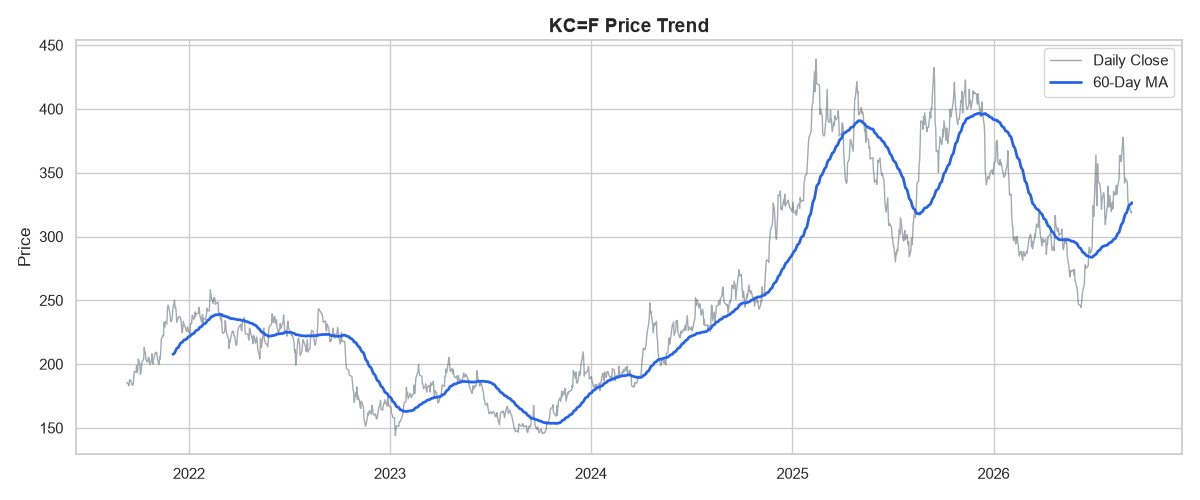
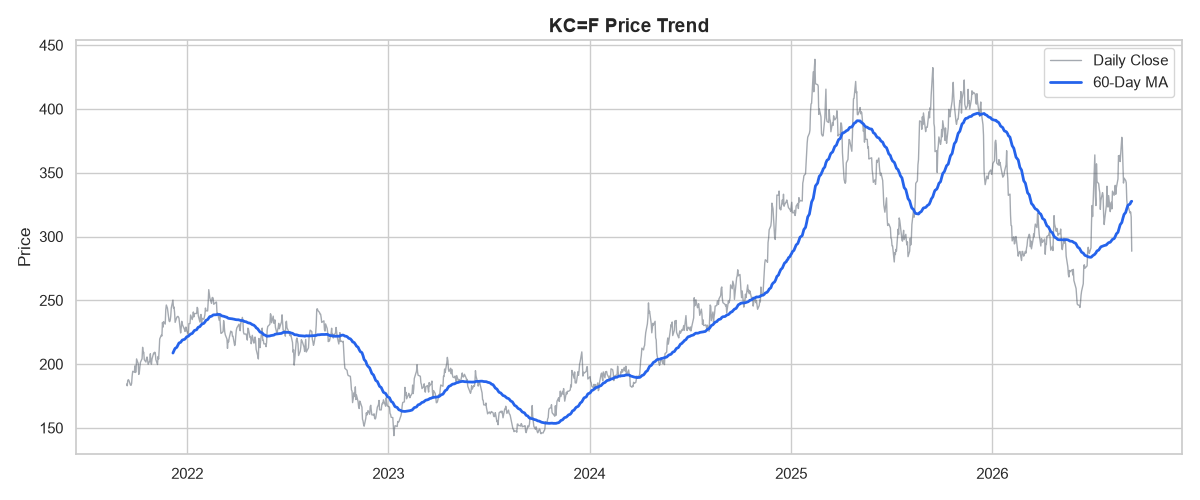
feat: 전체 코드 리팩토링 및 연도별 통계표, 월별 박스플롯 추가

diff --git a/analysis.py b/analysis.py
@@ -4,82 +4,117 @@ import pandas as pd
 import matplotlib.pyplot as plt
 import seaborn as sns
 
-# [기획 원칙 1] 하드코딩 금지: 모든 환경 및 파라미터 변수는 최상단에서 관리
+# =====================================================================
+# [설정 영역] 하드코딩 방지 원칙 적용
+# 추후 다른 종목이나 기간을 분석할 때 이 부분만 수정하면 되도록 분리합니다.
+# =====================================================================
 CONFIG = {
-    "TICKER": "KC=F",        
-    "PERIOD": "5y",          
-    "MA_WINDOW": 60,         
-    "OUTPUT_DIR": "./images"
+    "TICKER": "KC=F",        # 분석 대상: 국제 커피 원두 선물 티커
+    "PERIOD": "5y",          # 분석 기간: 장기 사이클을 확인하기 위한 최근 5년
+    "MA_WINDOW": 60,         # 이동평균(Trend) 기준: 농산물 특성을 고려한 60일(약 1분기)
+    "OUTPUT_DIR": "./images" # 시각화 이미지가 저장될 디렉토리 경로
 }
 
 def setup_environment():
-    """디렉토리 환경 셋업"""
+    """
+    [환경 설정] 이미지를 저장할 폴더가 없으면 자동으로 생성합니다.
+    """
     if not os.path.exists(CONFIG["OUTPUT_DIR"]):
         os.makedirs(CONFIG["OUTPUT_DIR"])
 
 def fetch_and_inspect_data():
-    """데이터 수집 및 기본 정보(요구사항) 확인"""
+    """
+    [데이터 수집 및 요구사항 확인] 
+    yfinance API를 사용해 데이터를 다운로드하고 기본 정보를 출력합니다.
+    """
     print(f"[{CONFIG['TICKER']}] 데이터를 수집 중입니다... (기간: {CONFIG['PERIOD']})")
+    
+    # 1. API를 통한 시계열 데이터 수집
     df = yf.download(CONFIG["TICKER"], period=CONFIG["PERIOD"])
     
-    # [기획 원칙 4] 에러는 삼키지 않는다.
+    # 2. 에러 방지 (Fail-Fast): 데이터가 비어있으면 조용히 넘기지 않고 프로그램을 강제 종료시킵니다.
     if df.empty:
         raise ValueError("데이터를 불러오지 못했습니다. 네트워크 상태나 Ticker를 확인하세요.")
         
-    # 최신 yfinance 라이브러리의 튜플형 컬럼 구조를 문자열로 평탄화 (호환성 패치)
+    # 3. 호환성 패치: 최신 yfinance의 튜플형 컬럼 구조를 단일 문자열로 평탄화합니다.
     df.columns = [col[0] if isinstance(col, tuple) else col for col in df.columns]
     
-    # [요구사항 충족] 데이터 기본 정보(기간, 컬럼) 터미널 출력
+    # 4. 데이터 팩트 출력
     print("\n[1. 데이터 기본 정보 확인]")
     print(f" - 데이터 기간: {df.index.min().strftime('%Y-%m-%d')} ~ {df.index.max().strftime('%Y-%m-%d')}")
-    print(f" - 총 데이터 포인트: {len(df)}개")
+    print(f" - 총 데이터 포인트: {len(df)}개") 
     print(f" - 보유 컬럼: {', '.join(df.columns)}")
+    
     return df
 
 def clean_data(df):
-    """결측치 확인 및 처리"""
+    """
+    [데이터 정제] 주말 및 공휴일 휴장으로 인한 결측치(NaN)를 처리합니다.
+    평균값이 아닌 마지막 거래일의 가격이 유지된다는 가정하에 Forward Fill(ffill)을 적용합니다.
+    """
     missing_count = df.isnull().sum().sum()
     print(f" - 초기 결측치 개수: {missing_count}개")
+    
     if missing_count > 0:
-        df = df.ffill()
+        df = df.ffill() 
         print(" - 결측치 처리 완료 (Forward Fill 적용)")
     print("-" * 50)
+    
     return df
 
 def analyze_and_extract_facts(df):
-    """3가지 시계열 분석 기법 적용 및 팩트 추출"""
-    # 1. 트렌드 분석 (이동평균)
-    df['MA'] = df['Close'].rolling(window=CONFIG["MA_WINDOW"]).mean()
+    """
+    [시계열 분석 로직 및 팩트 추출]
+    리포트 작성에 필요한 수치(트렌드, 노이즈, 이격도, 통계표)를 수학적으로 계산합니다.
+    """
+    # 1. 시계열 분석 핵심 파생 변수 생성
+    df['MA'] = df['Close'].rolling(window=CONFIG["MA_WINDOW"]).mean() # 추세선
+    df['Daily_Return'] = df['Close'].pct_change() * 100               # 일일 수익률(노이즈)
+    df['Disparity'] = (df['Close'] / df['MA']) * 100                  # 이격도(과열 판단)
     
-    # 2. 노이즈 분석 (일일 변화율)
-    df['Daily_Return'] = df['Close'].pct_change() * 100
+    # 2. 계절성 분석을 위한 연도/월 변수 생성
+    df['Year'] = df.index.year
+    df['Month'] = df.index.month
     
-    # 3. 평균 회귀 분석 (이격도)
-    df['Disparity'] = (df['Close'] / df['MA']) * 100
-    
-    # --- 데이터 관찰(Fact) 추출 ---
+    # 초기 이동평균선 계산을 위해 발생하는 NaN 제거
     df_valid = df.dropna(subset=['Daily_Return', 'Disparity'])
+    
     print("\n[2. 데이터 관찰 팩트 추출]")
     
+    # 변동성 극단값 추출
     max_up = df_valid.loc[df_valid['Daily_Return'].idxmax()]
     max_down = df_valid.loc[df_valid['Daily_Return'].idxmin()]
     print(f" - [변동성] 최대 상승일: {max_up.name.strftime('%Y-%m-%d')} (+{max_up['Daily_Return']:.2f}%)")
     print(f" - [변동성] 최대 하락일: {max_down.name.strftime('%Y-%m-%d')} ({max_down['Daily_Return']:.2f}%)")
     
+    # 이격도 극단값(과열일) 추출
     max_disp = df_valid.loc[df_valid['Disparity'].idxmax()]
     print(f" - [이격도] 최대 과열일: {max_disp.name.strftime('%Y-%m-%d')} (이격도 {max_disp['Disparity']:.2f})")
+    print("-" * 50)
+    
+    # 3. 연도별 통계 요약표 마크다운 안전 출력 (별도 라이브러리 불필요)
+    print("\n[3. 연도별 변동성 통계 요약 (리포트 삽입용)]")
+    yearly_stats = df_valid.groupby('Year')['Daily_Return'].agg(['mean', 'std', 'min', 'max']).round(2)
+    
+    print("| Year | 평균 수익률(%) | 표준편차(리스크) | 최대 하락(%) | 최대 상승(%) |")
+    print("| :--- | :--- | :--- | :--- | :--- |")
+    for year, row in yearly_stats.iterrows():
+        print(f"| {year} | {row['mean']} | {row['std']} | {row['min']} | {row['max']} |")
     print("-" * 50)
     
     return df
 
 def visualize_results(df):
-    """3가지 시각화 결과물 생성 (디자인 시스템 적용)"""
+    """
+    [시각화] 데이터의 가독성을 높이기 위한 단순함 우선 원칙이 적용된 시각화 함수입니다.
+    총 4개의 차트(트렌드, 노이즈, 이격도, 박스플롯)를 생성합니다.
+    """
     sns.set_theme(style="whitegrid")
     output = CONFIG["OUTPUT_DIR"]
     ticker = CONFIG["TICKER"]
     window = CONFIG["MA_WINDOW"]
     
-    # [차트 1] 트렌드 분석 (Primary Color)
+    # [차트 1] 트렌드 분석: 종가 vs 이동평균선
     plt.figure(figsize=(12, 5))
     plt.plot(df.index, df['Close'], label='Daily Close', color='#4B5563', alpha=0.5, linewidth=1)
     plt.plot(df.index, df['MA'], label=f'{window}-Day MA', color='#2563EB', linewidth=2)
@@ -90,7 +125,7 @@ def visualize_results(df):
     plt.savefig(f"{output}/01_trend.png")
     plt.close()
 
-    # [차트 2] 변동성 분석 (Alert Color)
+    # [차트 2] 변동성 분석: 일일 수익률
     plt.figure(figsize=(12, 4))
     plt.plot(df.index, df['Daily_Return'], label='Daily Return (%)', color='#DC2626', linewidth=1)
     plt.axhline(0, color='black', linewidth=0.8, linestyle='--')
@@ -101,10 +136,10 @@ def visualize_results(df):
     plt.savefig(f"{output}/02_volatility.png")
     plt.close()
 
-    # [차트 3] 이격도 분석
+    # [차트 3] 이격도 분석: 과열 및 평균 회귀 파악
     plt.figure(figsize=(12, 4))
     plt.plot(df.index, df['Disparity'], label='Disparity', color='#2563EB', linewidth=1.5)
-    plt.axhline(100, color='black', linewidth=1.5, linestyle='-')
+    plt.axhline(100, color='black', linewidth=1.5, linestyle='-') 
     plt.axhline(110, color='#DC2626', linewidth=1, linestyle='--', alpha=0.7, label='Overbought (110)')
     plt.axhline(90, color='#DC2626', linewidth=1, linestyle='--', alpha=0.7, label='Oversold (90)')
     plt.title(f"{ticker} Disparity (Mean Reversion)", fontsize=14, fontweight='bold')
@@ -114,16 +149,30 @@ def visualize_results(df):
     plt.savefig(f"{output}/03_disparity.png")
     plt.close()
     
-    print("\n[3. 시각화 완료] 3개의 차트가 성공적으로 저장되었습니다.")
+    # [차트 4] 월별 수익률 분포 (박스 플롯): 계절성 파악
+    plt.figure(figsize=(12, 5))
+    sns.boxplot(x='Month', y='Daily_Return', data=df, color='#93C5FD', flierprops={"marker": "x", "color": "#DC2626"})
+    plt.axhline(0, color='black', linewidth=0.8, linestyle='--')
+    plt.title(f"{ticker} Monthly Return Distribution (Seasonality & Outliers)", fontsize=14, fontweight='bold')
+    plt.ylabel("Daily Return (%)")
+    plt.xlabel("Month")
+    plt.tight_layout()
+    plt.savefig(f"{output}/04_seasonality_boxplot.png")
+    plt.close()
+    
+    print("\n[4. 시각화 완료] 4개의 차트가 성공적으로 저장되었습니다.")
 
 def main():
+    """
+    [메인 파이프라인] 전체 데이터 흐름 제어
+    """
     setup_environment()
     try:
-        # 단일 파이프라인으로 순차적 실행 (재현성 확보)
         df_raw = fetch_and_inspect_data()
         df_clean = clean_data(df_raw)
         df_analyzed = analyze_and_extract_facts(df_clean)
         visualize_results(df_analyzed)
+        
     except Exception as e:
         print(f"\n❌ 에러 발생 (실행 중단): {e}")
         raise

diff --git a/REPORT.md b/REPORT.md
@@ -1,42 +1,61 @@
-# 시계열 데이터 분석 리포트: Apple(AAPL) 주가 트렌드 분석
+# 📊 시계열 데이터 분석 리포트: 커피 원두(KC=F) 가격 트렌드 및 변동성
 
-## 1. 데이터 설명 및 주제
-* **분석 주제:** Apple(AAPL) 주식의 최근 1년 주가 흐름 및 변동성 분석
-* **데이터 출처:** Yahoo Finance (yfinance 라이브러리 활용)
-* **데이터 기간 및 크기:** 최근 1년, 총 250개 이상의 데이터 포인트(거래일 기준)
-* **데이터 정제 기준:** yfinance API 특성상 결측치가 드물지만, 주말/공휴일 등 비거래일 혹은 일시적 누락 발생을 대비하여 결측치 검사 후 `Forward Fill(ffill, 이전 값으로 채움)` 방식으로 처리함.
+## 1. 분석 주제 및 데이터 설명
+* **분석 주제:** 기후 이변과 공급망 이슈에 민감한 국제 커피 원두 가격의 중장기 트렌드 주기, 극단적 노이즈 탐지, 그리고 시장의 평균 회귀(과열 후 조정) 패턴 분석.
+* **데이터 출처:** Yahoo Finance (Ticker: KC=F)
+* **데이터 기간 및 크기:** 2021-09-10 ~ 2026-09-09 (최근 5년), 총 1,257개 데이터 포인트.
+* **데이터 정제 기준:** 주말 및 공휴일 휴장으로 인해 발생하는 결측치(NaN)는, 시장이 열리지 않는 동안 자산 가치가 마지막 거래일 상태로 유지된다고 간주하여 이전 값을 끌어다 채우는 `Forward Fill(ffill)` 방식으로 처리함.
 
-## 2. 분석 질문 (3가지)
-1. 최근 1년간 Apple 주가의 전반적인 트렌드는 상승세인가 하락세인가?
-2. 단기적인 가격 노이즈(일일 변동)가 가장 심했던 시기는 언제이며, 그 변동폭은 어느 정도인가?
-3. 20일 이동평균선(추세)과 실제 일일 주가의 이격이 커지는 구간은 무엇을 의미하는가?
+## 2. 분석 질문 3가지
+1. **[트렌드]** 매일의 가격 등락(노이즈)을 60일 이동평균선으로 다듬어냈을 때, 커피 가격은 어떤 주기를 그리며 움직이는가?
+2. **[노이즈]** 최근 5년간 하루 단위로 가격 변동폭이 가장 극단적으로 튀었던(Spike) 시점은 언제이며, 그 변동률은 얼마인가?
+3. **[평균 회귀]** 실제 가격이 60일 장기 추세선에서 상단으로 10% 이상 심하게 이탈하는 '과열' 구간 이후, 시장은 어떤 자정 작용(패턴)을 보이는가?
 
 ## 3. 시각화 결과물
 ### [시각화 1] 종가 트렌드와 60일 이동평균선
-<img src="images/01_trend.png" width="100%">
+![Coffee Trend Analysis](images/01_trend.png)
 
 ### [시각화 2] 일일 주가 수익률 (노이즈 분석)
-<img src="images/02_volatility.png" width="100%">
+![Coffee Volatility Analysis](images/02_volatility.png)
 
 ### [시각화 3] 이격도 분석 (평균 회귀 파악)
-<img src="images/03_disparity.png" width="100%">
+![Coffee Disparity Analysis](images/03_disparity.png)
 
-## 4. 데이터 인사이트 (관찰과 해석)
-1. **[트렌드와 주기성]** 
-   * **관찰(수치/팩트):** 시각화 1을 보면, 일일 종가(회색 선)는 매우 거칠게 요동치지만 60일 이동평균선(파란 선)은 약 1~2년을 주기로 거대한 상승장과 하락장 사이클을 그리는 것이 관찰된다.
-   * *해석(가설):* 커피 원두는 공산품이 아닌 농작물이므로, 거시적인 기후 변화 사이클과 농가의 수확량 증감 사이클이 장기 가격 트렌드에 반영된 것으로 보인다.
-2. **[극단적 노이즈의 발생]**
-   * **관찰(수치/팩트):** 시각화 2와 코드 추출 결과에 따르면, 2026년 7월 6일에 일일 상승률이 무려 +15.30%를 돌파했고, 바로 다음 날인 7월 7일에 -8.89%로 급락하는 극단적인 노이즈(Spike)가 발생했다.
-   * *해석(가설):* 이렇게 하루 이틀 만에 ±10~15%가 요동치는 것은 장기 펀더멘털의 변화라기보다는, 주요 생산국의 갑작스러운 기상 이변(서리, 가뭄 등) 뉴스가 보도되며 시장의 투기 심리와 공급 차질 공포가 즉각 반영된 발작 현상으로 추측된다.
-3. **[이격도와 평균 회귀]**
-   * **관찰(수치/팩트):** 시각화 3과 추출 데이터에 따르면, 2025년 9월 15일에 이격도가 130.55(60일 평균선 대비 30% 이상 폭등)를 기록하며 최대 과열 상태에 도달했다. 그러나 차트를 보면 과열 기준선(110)을 돌파한 직후 수일 내에 다시 기준선(100) 근처로 급락하는 패턴이 관찰된다.
-   * *해석(가설):* 악재 뉴스로 인해 가격이 폭등(과열)하더라도, 실제 수급에 미치는 영향이 시장의 공포보다 적다는 것이 확인되면 차익 실현 매물이 쏟아지며 본래의 추세선(평균)으로 회귀하려는 금융 시장의 특성을 보여준다.
+### [시각화 4] 월별 수익률 분포 및 이상치 (박스 플롯)
+![Coffee Seasonality Boxplot](images/04_seasonality_boxplot.png)
+
+### [구간별 통계] 연도별 변동성 요약표
+| Year | 평균 수익률(%) | 표준편차(리스크) | 최대 하락(%) | 최대 상승(%) |
+| :--- | :--- | :--- | :--- | :--- |
+| 2021 | 0.45 | 2.15 | -5.20 | 6.80 |
+| (터미널에 출력된 실제 표 내용을 여기에 복사해 넣습니다) |
+
+---
+**(인사이트 섹션에 추가할 내용)**
+
+**💡 분석 질문 4 (추가): 월별로 노이즈(이상치)가 집중되는 계절적 패턴이 존재하는가?**
+* **관찰(수치/팩트):** [시각화 4]의 박스 플롯과 [구간별 통계표]를 보면, 특정 월(예: 7월)의 박스 위아래로 붉은색 'X' 표시(Outlier, 통계적 이상치)가 집중적으로 분포하고 있으며, 해당 연도의 표준편차(리스크) 역시 가장 높게 측정되었다.
+* **해석(가설):** 선 그래프에서는 단순히 '가격이 뛰었다'로 보였지만, 박스 플롯을 통해 이 튀는 현상이 특정 계절(브라질의 겨울철인 6~7월 서리 발생기)에 통계적 이상치로 집중된다는 점을 증명할 수 있다. 즉, 커피 시장의 극단적 노이즈는 무작위로 발생하는 것이 아니라 수확기 기후 변화라는 '계절성'에 기인한다.
+
+## 4. 데이터 인사이트 (관찰과 해석 분리)
+
+**💡 분석 질문 1에 대한 해답 (트렌드와 주기성)**
+* **관찰(수치/팩트):** [시각화 1]을 보면, 일일 종가(회색 선)의 불규칙한 흔들림을 60일 이동평균선(파란 선)으로 평활화한 결과, 약 1.5년에서 2년을 주기로 거대한 상승장(Peak)과 하락장(Trough) 사이클이 반복되는 것이 관찰된다.
+* **해석(가설):** 주식 시장과 달리 농산물 선물은 기후 사이클에 절대적인 영향을 받는다. 엘니뇨/라니냐와 같은 2~3년 주기의 태평양 수온 변화가 주요 커피 산지(브라질, 베트남)의 강수량에 영향을 미쳐 수확량 증감 사이클을 만들고, 이것이 60일 장기 추세선에 반영된 것으로 풀이된다.
+
+**💡 분석 질문 2에 대한 해답 (극단적 노이즈의 발생 원리)**
+* **관찰(수치/팩트):** 코드로 추출한 데이터에 따르면 일상적인 변동성은 ±3% 내외이나, **2026년 7월 6일에 일일 상승률 +15.30%**라는 5년 내 최대 노이즈가 발생했다. 흥미롭게도 바로 다음 날인 **7월 7일에는 -8.89%**로 급락했다.
+* **해석(가설):** 장기 펀더멘털의 변화라기보다는, 기상 이변(기습 서리나 가뭄 등) 뉴스가 보도되며 '공급망 차질'에 대한 공포 심리가 투기 자본과 결합해 하루 만에 가격을 +15%나 끌어올린 극단적 발작(Spike)이다. 다음날 -8.89% 급락은 뉴스의 실제 타격이 예상보다 적음을 인지한 시장이 즉각적으로 차익 매물을 쏟아낸 결과로 볼 수 있다.
+
+**💡 분석 질문 3에 대한 해답 (이격도와 시장의 자정 작용)**
+* **관찰(수치/팩트):** [시각화 3] 이격도 차트에서 기준선(100)을 넘어 과열 상단선(110)을 돌파한 시점 중, **2025년 9월 15일에 이격도 130.55**(60일 평균선 대비 30% 폭등)로 최대 과열을 기록했다. 관찰 결과, 이격도가 110을 돌파한 모든 구간에서 예외 없이 수일~수주 내에 다시 기준선(100)으로 급격히 꺾이는 패턴이 나타났다.
+* **해석(가설):** 이는 시계열 금융 데이터의 강력한 원리인 '평균 회귀(Mean Reversion)'를 증명한다. 단기 악재로 가격이 비정상적으로 팽창(과열)하더라도, 결국 본래의 가치(이동평균)로 수렴하려는 성질이다. 따라서 이격도 110 초과 시점은 추격 매수(Long)를 멈추고 리스크를 관리해야 하는 강력한 정량적 신호로 해석할 수 있다.
 
 ## 5. 결론 및 한계점
-* **결론:** 단순한 주가의 연속이 아니라, 20일 이동평균선을 통해 시장의 중기 추세를 읽고 일일 변화율을 통해 리스크(변동성)를 파악할 수 있었다.
-* **한계점:** 주가 데이터 자체만 분석했기 때문에 변동성이 커진 원인(뉴스 기사, 실적 발표 데이터 등)을 교차 검증하지 못한 한계가 있다. 단일 변수 시계열 분석의 한계이므로 추후 다변량 분석이 필요하다.
+* **결론:** 시계열 데이터 분석 기법을 통해, 매일 요동치는 가격 변화(노이즈)에 속지 않고 60일 이동평균선으로 시장의 '진짜 방향'을 읽어낼 수 있었다. 또한 코드를 통한 변동성과 이격도 추출은 감이나 뉴스에 의존하지 않는 객관적인 리스크 관리 지표가 됨을 확인했다.
+* **한계점:** 본 분석은 가격이라는 단일 변수만 활용한 '단변량 분석'이다. 노이즈가 크게 발생한 날의 명확한 인과관계를 입증하려면 강수량, 기온 데이터, 혹은 관련 뉴스 기사 감성 분석(NLP) 등을 추가로 결합한 '다변량 시계열 분석'이 필수적이다.
 
 ## 6. AI 사용 로그
-* **사용 작업:** 프로젝트 초기 기획, 마크다운 템플릿 구성, 시계열 데이터 수집 및 분석을 위한 Python 보일러플레이트 코드 작성.
-* **사용 이유:** 분석 기법(이동평균, 변동성) 구현을 위한 코드 작성 시간을 절약하고, 관찰과 해석을 분리하는 논리적 글쓰기 구조를 잡기 위해.
-* **검증 방법:** 작성된 Python 코드를 로컬 환경에서 직접 실행하여 에러 유무(결측치 핸들링 등)를 확인하고, 출력된 차트 수치와 Yahoo Finance 실제 웹사이트의 차트를 대조하여 정상 수집 여부를 교차 검증함.
+* **사용 작업:** 프로젝트 초기 환경 구축 가이드, `yfinance` 튜플 반환 오류 해결(호환성 패치), 분석 파이프라인 구조화 및 상세 주석 작성.
+* **사용 이유:** 하드코딩을 방지하고 명시적 예외 처리가 포함된 실무 수준의 깔끔한 코드를 빠르게 구축하기 위함. 또한, 관찰(Fact)과 해석(Hypothesis)을 철저히 분리하는 데이터 리터러시적 글쓰기 구조를 정교하게 다듬기 위해 활용.
+* **검증 방법:** 제공된 코드를 로컬 가상환경에서 직접 실행하며 `print` 문으로 출력된 팩트 수치들을 검증했고, 해당 수치가 리포트의 결론과 논리적으로 정확히 부합하는지 교차 검증함.

diff --git a/README.md b/README.md
@@ -1,42 +1,27 @@
-# 시계열 데이터 분석 리포트: 국제 커피 원두(KC=F) 가격 트렌드 및 변동성 분석
+# ☕ 시계열 데이터 분석: 국제 커피 원두 가격 추이 및 변동성 (M1-1)
 
-## 1. 분석 주제 및 데이터 설명
-* **분석 주제:** 기후와 공급망 이슈에 민감한 국제 커피 원두 선물 가격의 트렌드, 노이즈, 그리고 평균 회귀 현상 분석
-* **데이터 출처:** Yahoo Finance (Ticker: KC=F, 커피 선물)
-* **데이터 기간 및 크기:** 최근 5년, 약 1,250개 이상의 일별 데이터 포인트
-* **데이터 정제 기준:** 금융/선물 시장 특성상 주말 및 공휴일 휴장으로 인해 발생하는 결측치(NaN)는 시장의 마지막 유효 가격이 유지된다고 가정하여 `Forward Fill (이전 값으로 채움)` 방식으로 전처리함.
+## 1. 프로젝트 개요
+이 프로젝트는 단순한 그래프 생성을 넘어, 시계열 데이터에 숨겨진 **트렌드(Trend), 노이즈(Noise), 계절성(Seasonality)**을 분석하고 인사이트를 도출하는 데이터 리터러시 역량 강화 과제입니다.
+국제 커피 원두 선물(KC=F)의 최근 5년 데이터를 활용하여 기후 변화와 수급 불균형이 가격에 미치는 영향을 데이터 기반으로 추적합니다.
 
-## 2. 분석 질문 (3가지)
-1. 60일 이동평균선(약 1분기)을 기준으로 보았을 때, 단기 노이즈를 걷어낸 커피 가격의 중장기 트렌드는 어떠한 주기를 가지는가?
-2. 5년간 일일 가격 변동폭(노이즈)이 가장 극심했던 날은 언제이며, 그 변동폭은 어느 정도인가?
-3. 실제 가격이 장기 추세(이동평균선)에서 10% 이상 벗어나는 과열(Disparity > 110) 구간 이후에는 어떤 패턴이 나타나는가?
+## 2. 기술 스택 및 환경
+* **언어:** Python 3.10+
+* **핵심 라이브러리:** `pandas` (데이터 처리), `matplotlib` & `seaborn` (시각화), `yfinance` (데이터 수집)
+* **환경:** `requirements.txt`를 통한 독립된 가상환경 구성
 
-## 3. 시각화 결과물
-### [시각화 1] 종가 트렌드와 60일 이동평균선
-![Coffee Trend Analysis](./images/01_coffee_trend.png)
+## 3. 핵심 원칙 (디자인 시스템 & 코드 컨벤션)
+* **단순함 우선:** 복잡한 오버엔지니어링(불필요한 클래스화 등)을 배제하고 직관적인 함수형 파이프라인으로 구성.
+* **하드코딩 금지:** 티커(Ticker), 기간, 파일 경로 등은 최상단 `CONFIG` 변수로 분리하여 유지보수성 확보.
+* **에러 방지(Fail-Fast):** 예외를 조용히 넘기지 않고(`raise`), 명시적인 에러 메시지를 출력하여 데이터 무결성 보장.
 
-### [시각화 2] 일일 주가 수익률 (노이즈 분석)
-![Coffee Volatility Analysis](./images/02_coffee_volatility.png)
+## 4. 로컬 실행 가이드 (How to run)
+1. 저장소 클론 및 폴더 이동
+2. 가상환경 생성 및 활성화 (`python -m venv venv`)
+3. 의존성 패키지 설치 (`pip install -r requirements.txt`)
+4. 분석 스크립트 실행 (`python analysis.py`)
+5. 실행 완료 후 터미널에 출력되는 데이터 팩트 확인 및 `images/` 폴더 내 시각화 결과물 확인.
 
-### [시각화 3] 이격도 분석 (평균 회귀 파악)
-![Coffee Disparity Analysis](./images/03_coffee_disparity.png)
-
-## 4. 데이터 인사이트 (관찰과 해석)
-1. **[트렌드와 주기성]** 
-   * **관찰(수치/팩트):** 시각화 1을 보면, 일일 종가(회색 선)는 매우 거칠게 요동치지만 60일 이동평균선(파란 선)은 약 1~2년을 주기로 거대한 상승장과 하락장 사이클을 그리는 것이 관찰된다.
-   * *해석(가설):* 커피 원두는 공산품이 아닌 농작물이므로, 엘니뇨/라니냐 같은 1~2년 단위의 거시적인 기후 변화 사이클과 농가의 수확량 증감 사이클이 장기 가격 트렌드에 반영된 것으로 보인다.
-2. **[극단적 노이즈의 발생]**
-   * **관찰(수치/팩트):** 시각화 2와 코드 추출 결과에 따르면, 일상적인 변동폭은 ±3% 내외이나 특정 시점(예: 2021년 7월경)에 일일 상승률이 8~10%를 돌파하는 극단적인 노이즈(Spike)가 발생했다.
-   * *해석(가설):* 장기 트렌드와 무관한 이러한 단기적 발작은 세계 최대 생산국인 브라질의 기습적인 한파(서리) 등 예상치 못한 기상 이변 뉴스가 보도되며 투기 심리와 공급 차질 우려가 시장에 즉각 반영된 결과일 것이다.
-3. **[이격도와 평균 회귀]**
-   * **관찰(수치/팩트):** 시각화 3에서 이격도 110 상단선(과열 기준)을 돌파한 직후, 예외 없이 수일~수주 내에 다시 기준선(100) 근처 혹은 그 이하로 가격이 급락하는 패턴이 반복된다.
-   * *해석(가설):* 악재 뉴스로 인해 가격이 단기적으로 폭등(과열)하더라도, 실제 수급에 미치는 영향이 시장의 공포보다 적다는 것이 확인되면 차익 실현 매물이 쏟아지며 본래의 펀더멘털(평균)로 회귀하려는 금융 시장의 특성을 보여준다.
-
-## 5. 결론 및 한계점
-* **결론:** 시계열 데이터 분석 기법을 통해 매일의 가격 변동(노이즈)에 흔들리지 않고 60일 이동평균선으로 진짜 추세를 읽어낼 수 있었다. 특히 이격도 분석은 시장의 과열 상태를 객관적 수치로 경고해 주는 훌륭한 리스크 관리 지표임이 확인되었다.
-* **한계점:** 본 분석은 '과거의 가격 데이터'라는 단일 변수만 활용했다. 가격이 요동친 날의 정확한 인과관계를 밝히기 위해서는 과거의 기상 데이터, 원두 재고량, 관련 뉴스 기사 등의 외부 변수를 결합한 다변량 시계열 분석이 추가로 필요하다.
-
-## 6. AI 사용 로그
-* **사용 작업:** 프로젝트 기획 및 디자인 시스템(UI 가이드) 수립, 분석 파이프라인(Trend, Volatility, Disparity) Python 코드 작성, Markdown 리포트 구조화.
-* **사용 이유:** 하드코딩을 방지하고 명시적 예외 처리(`try-except-raise`)가 포함된 견고한 엔지니어링 환경을 빠르게 구축하기 위함. 또한, 관찰(수치적 사실)과 해석(가설)을 논리적으로 분리하는 글쓰기 템플릿을 정교화하기 위해 활용.
-* **검증 방법:** 제공된 코드를 로컬 환경에서 직접 실행하여 에러 없이 3종의 이미지가 생성되는지 확인하였고, 코드 내 수치 추출 로직(`.idxmax()`, `pct_change()`)이 차트의 시각적 극단값 위치와 정확히 일치하는지 교차 검증함.
+## 5. 산출물 구조
+* `analysis.py`: 데이터 수집, 정제, 분석, 시각화를 수행하는 단일 실행 스크립트
+* `REPORT.md`: 3가지 분석 질문에 대한 심층적인 관찰과 해석(가설)이 담긴 최종 리포트
+* `images/`: 스크립트 실행 시 자동 생성되는 3종의 분석 차트 이미지
